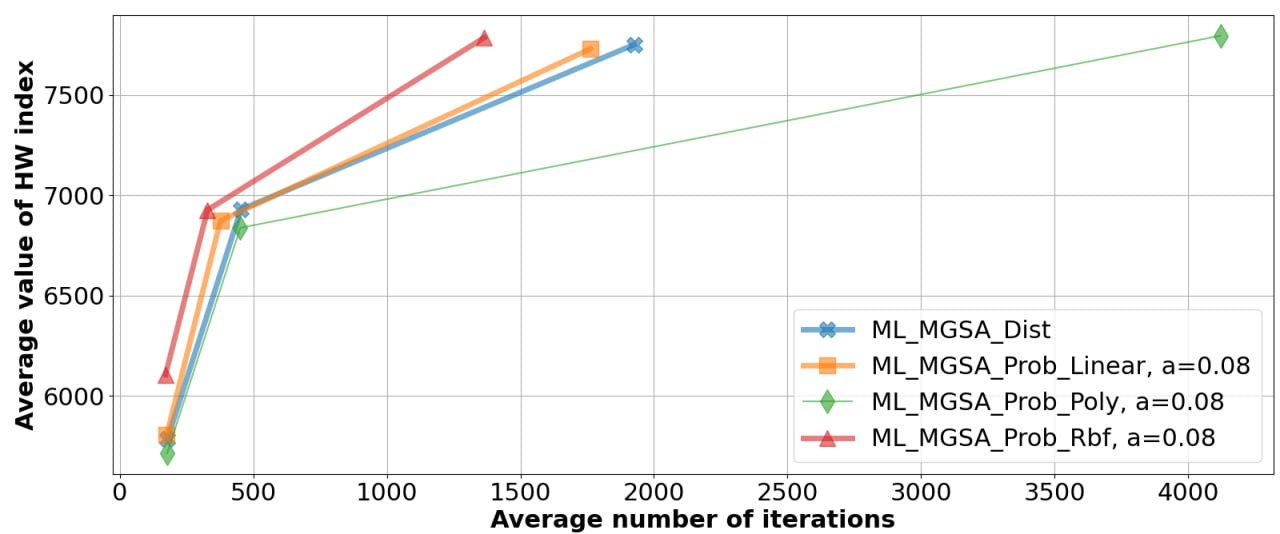
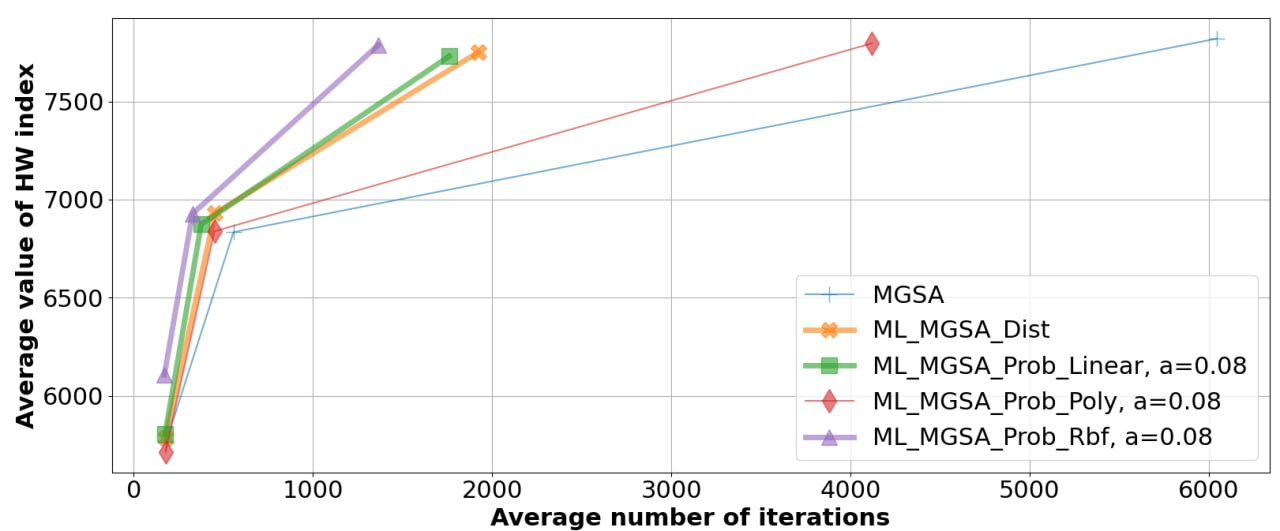
OPTIMA add 4c alpha=0

diff --git a/2024/OPTIMA/OPTIMA_2024_MCO.tex b/2024/OPTIMA/OPTIMA_2024_MCO.tex
@@ -379,28 +379,29 @@ The following parameters are indicated in Table \ref{tab:1}: the kernel of the S
 \resizebox{\textwidth}{!}{%
 \begin{tabular}{cccccc}
 \hline
-\textbf{}                                                                                  & \textbf{Model Kernel} & \textbf{$\alpha$} & \textbf{Avg. HV-index} & \textbf{Avg. iter.} & \textbf{Speedup iter.} \\ \hline
-ML\_MGSA                                                                                   & -                     & -                              & 114.91                 & 2269.82             & 1.00                   \\ \hline
-\multicolumn{6}{c}{\textbf{Experiments for the case of fixed weights}}                                                                                                                                                      \\ \hline
-ML\_MGSA\_Dist                                                                             & Linear                & 0.01                           & 114.67                 & 691.14              & \textbf{3.28}          \\
-\multirow{3}{*}{ML\_MGSA\_Prob (Fixed weights)} & Linear                & 0.04                           & 114.72                 & 963.05              & 2.36                   \\
-                                                                                           & Poly                  & 0.07                           & 114.73                 & 871.82              & 2.60                   \\
-                                                                                           & RBF                   & 0.03                           & 114.80                 & 883.04              & 2.57                   \\ \hline
-\multicolumn{6}{c}{\textbf{Experiments for the case of adjusted weights}}                                                                                                                                                   \\ \hline
-ML\_MGSA\_Dist                                                                             & Linear                & 0.01                           & 114.67                 & 691.14              & \textbf{3.28}          \\
-\multirow{3}{*}{ML\_MGSA\_Prob (Adj. weights)}  & Linear                & 0.04                           & 114.76                 & 1018.03             & 2.23                   \\
-                                                                                           & Poly                  & 0.08                           & 114.73                 & 844.66              & 2.69                   \\
-                                                                                           & RBF                   & 0.03                           & 114.76                 & 796.74              & 2.85                   \\ \hline
-\multicolumn{6}{c}{\textbf{Experiments for the case of adjusted weights and logarithmic probabilities}}                                                                                                                              \\ \hline
-ML\_MGSA\_Dist                                                                             & Linear                & 0.01                           & 114.67                 & 691.14              & \textbf{3.28}          \\
-\multirow{3}{*}{ML\_MGSA\_Prob (Log Norm)}      & Linear                & 0.05                           & 114.72                 & 711.44              & 3.19                   \\
-                                                                                           & Poly                  & 0.04                           & 114.79                 & 854.82              & 2.66                   \\
-                                                                                           & RBF                   & 0.04                           & 114.74                 & 704.99              & 3.22                   \\ \hline
-\multicolumn{6}{c}{\textbf{Experiments with 4-criterial MCO problems}}                                                                                                                                                      \\ \hline
-ML\_MGSA\_Dist                                                                             & Linear                & 0.01                           & 7751.43                & 1925.6              & 1.00                   \\
-\multirow{3}{*}{ML\_MGSA\_Prob (Log Norm)}      & Linear                & 0.08                           & 7729.71                & 1760.5              & 1.09                   \\
-                                                                                           & Poly                  & 0.08                           & 7796.2                 & 4121.7              & 0.47                   \\
-                                                                                           & RBF                   & 0.08                           & 7786.48                & 1364.6              & \textbf{1.41}          \\ \hline
+\textbf{}                                                                  & \textbf{Model Kernel} & \textbf{$\alpha$} & \textbf{Avg. HV-index} & \textbf{Avg. iter.} & \textbf{Speedup iter.} \\ \hline
+ML\_MGSA                                                                   & -          & -    & 114.91  & 2269.82   & 1.00           \\ \hline
+\multicolumn{6}{c}{\textbf{Experiments for the case of fixed weights}}                                                                \\ \hline
+ML\_MGSA\_Dist                                                             & Linear     & 0.01 & 114.67  & 691.14    & \textbf{3.28}  \\
+\multirow{3}{*}{ML\_MGSA\_Prob (Fixed weights)}                            & Linear     & 0.04 & 114.72  & 963.05    & 2.36           \\
+                                                                           & Poly       & 0.07 & 114.73  & 871.82    & 2.60           \\
+                                                                           & RBF        & 0.03 & 114.80  & 883.04    & 2.57           \\ \hline
+\multicolumn{6}{c}{\textbf{Experiments for the case of adjusted weights}}                                                             \\ \hline
+ML\_MGSA\_Dist                                                             & Linear     & 0.01 & 114.67  & 691.14    & \textbf{3.28}  \\
+\multirow{3}{*}{ML\_MGSA\_Prob (Adj. weights)}                             & Linear     & 0.04 & 114.76  & 1018.03    & 2.23           \\
+                                                                           & Poly       & 0.08 & 114.73  & 844.66    & 2.69           \\
+                                                                           & RBF        & 0.03 & 114.76  & 796.74    & 2.85           \\ \hline
+\multicolumn{6}{c}{\textbf{Experiments for the case of adjusted weights and logarithmic probabilities}}                                               \\ \hline
+ML\_MGSA\_Dist                                                             & Linear     & 0.01 & 114.67  & 691.14    & \textbf{3.28}  \\
+\multirow{3}{*}{ML\_MGSA\_Prob (Log Norm)}                                 & Linear     & 0.05 & 114.72  & 711.44    & 3.19           \\
+                                                                           & Poly       & 0.04 & 114.79  & 854.82    & 2.66           \\
+                                                                           & RBF        & 0.04 & 114.74  & 704.99    & 3.22           \\ \hline
+\multicolumn{6}{c}{\textbf{Experiments with 4-criterial MCO problems}}                                                                \\ \hline
+ML\_MGSA                                                                   & -          & -    & 7819.86 & 6046.4    & 1.00           \\ \hline
+ML\_MGSA\_Dist                                                             & Linear     & 0.01 & 7751.43 & 1925.6    & 3.14           \\
+\multirow{3}{*}{ML\_MGSA\_Prob (Log Norm)}                                 & Linear     & 0.08 & 7729.71 & 1760.5    & 3.43           \\
+                                                                           & Poly       & 0.08 & 7796.20 & 4121.7    & 1.47           \\
+                                                                           & RBF        & 0.08 & 7786.48 & 1364.6    & \textbf{4.43}  \\ \hline
 \end{tabular}%
 }
 \end{table}
